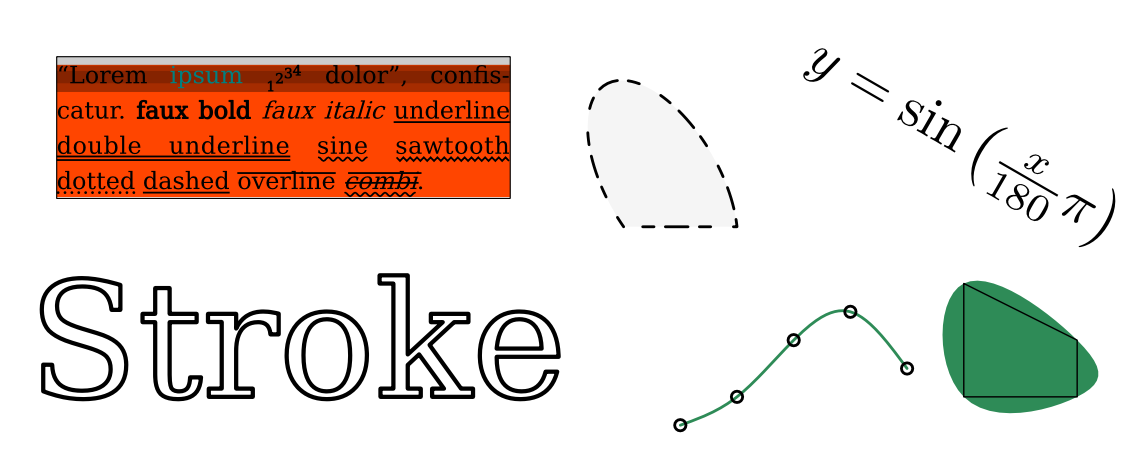
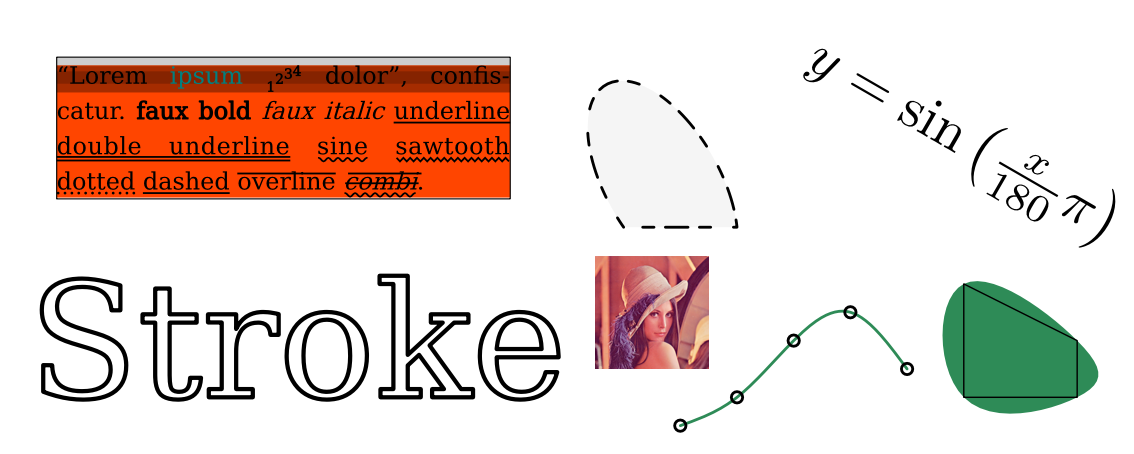
Fix bad stroke for rotated and radii corrected ellipses

diff --git a/path_stroke.go b/path_stroke.go
@@ -347,7 +347,6 @@ func offsetSegment(p *Path, halfWidth float64, cr Capper, jr Joiner) (*Path, *Pa
 				cp2: cp2,
 			})
 		case ArcToCmd:
-			// TODO: results seems bad, stroke too thick in the middle for rotated arcs
 			rx, ry, phi := p.d[i+1], p.d[i+2], p.d[i+3]
 			largeArc, sweep := fromArcFlags(p.d[i+4])
 			end = Point{p.d[i+5], p.d[i+6]}
@@ -401,28 +400,32 @@ func offsetSegment(p *Path, halfWidth float64, cr Capper, jr Joiner) (*Path, *Pa
 	rhs.MoveTo(rStart.X, rStart.Y)
 	lhs.MoveTo(lStart.X, lStart.Y)
 
-	// TODO: fix if there is no space for Joiner when stroke is too thick
 	for i, cur := range states {
+		rEnd := cur.p1.Add(cur.n1)
+		lEnd := cur.p1.Sub(cur.n1)
 		switch cur.cmd {
 		case LineToCmd:
-			rEnd := cur.p1.Add(cur.n1)
-			lEnd := cur.p1.Sub(cur.n1)
 			rhs.LineTo(rEnd.X, rEnd.Y)
 			lhs.LineTo(lEnd.X, lEnd.Y)
 		case CubeToCmd:
 			rhs = rhs.Join(strokeCubicBezier(cur.p0, cur.cp1, cur.cp2, cur.p1, halfWidth, Tolerance))
 			lhs = lhs.Join(strokeCubicBezier(cur.p0, cur.cp1, cur.cp2, cur.p1, -halfWidth, Tolerance))
 		case ArcToCmd:
-			rEnd := cur.p1.Add(cur.n1)
-			lEnd := cur.p1.Sub(cur.n1)
+			dr := halfWidth
 			if !cur.sweep { // bend to the right, ie. CW
-				rhs.ArcTo(cur.rx-halfWidth, cur.ry-halfWidth, cur.rot, cur.largeArc, cur.sweep, rEnd.X, rEnd.Y)
-				lhs.ArcTo(cur.rx+halfWidth, cur.ry+halfWidth, cur.rot, cur.largeArc, cur.sweep, lEnd.X, lEnd.Y)
-			} else { // bend to the left, ie. CCW
-				rhs.ArcTo(cur.rx+halfWidth, cur.ry+halfWidth, cur.rot, cur.largeArc, cur.sweep, rEnd.X, rEnd.Y)
-				lhs.ArcTo(cur.rx-halfWidth, cur.ry-halfWidth, cur.rot, cur.largeArc, cur.sweep, lEnd.X, lEnd.Y)
+				dr = -dr
 			}
+
+			rLambda := ellipseRadiiCorrection(rStart, cur.rx+dr, cur.ry+dr, cur.rot*math.Pi/180.0, rEnd)
+			lLambda := ellipseRadiiCorrection(lStart, cur.rx-dr, cur.ry-dr, cur.rot*math.Pi/180.0, lEnd)
+			if rLambda <= 1.0 && lLambda <= 1.0 {
+				rLambda, lLambda = 1.0, 1.0
+			}
+			rhs.ArcTo(rLambda*(cur.rx+dr), rLambda*(cur.ry+dr), cur.rot, cur.largeArc, cur.sweep, rEnd.X, rEnd.Y)
+			lhs.ArcTo(lLambda*(cur.rx-dr), lLambda*(cur.ry-dr), cur.rot, cur.largeArc, cur.sweep, lEnd.X, lEnd.Y)
 		}
+		rStart = rEnd
+		lStart = lEnd
 
 		// join the cur and next path segments on the outside of the bend
 		if i+1 < len(states) || closed {

diff --git a/example/test.go b/example/test.go
@@ -75,39 +75,23 @@ func drawStrokedPath(c *canvas.C, x, y, d float64, path string) {
 }
 
 func Draw(c *canvas.C) {
-	// test SVG, PDF and EPS implementations
-	//p, _ := canvas.ParseSVG(fmt.Sprintf("H10.0Q20.0 0.0 20.0 10.0A20.0 10.0 45.0 0 1 0.0 20.0A15.0 10.0 45.0 0 0 10.0 5.0z"))
 	p, _ := canvas.ParseSVG(fmt.Sprintf("A60.0 30.0 30.0 0 0 120.0 0.0"))
-
-	//c.SetStrokeJoiner(canvas.MiterJoiner)
-	//c.SetStrokeColor(canvas.Blue)
-	//c.SetDashes(-4.0, 5.0, 1.0)
-	//c.DrawPath(40.0, 10.0, p)
-
-	//c.SetFillColor(canvas.Transparent)
-	f := p.Flatten()
-	p = p.Stroke(1.0, canvas.ButtCapper, canvas.MiterJoiner)
-	f = f.Stroke(1.0, canvas.ButtCapper, canvas.MiterJoiner)
-	//c.SetDashes(0.0)
-	c.DrawPath(10.0, 10.0, p)
-
-	c.SetFillColor(color.RGBA{128, 0, 0, 128})
+	f := p.Flatten().Stroke(1.0, canvas.ButtCapper, canvas.MiterJoiner)
+	c.SetFillColor(color.RGBA{0, 0, 128, 128})
 	c.DrawPath(10.0, 10.0, f)
 
-	c.DrawPath(40.0, 70.0, canvas.RegularStarPolygon(10, 3, 10.0, false))
-	c.DrawPath(60.0, 70.0, canvas.RegularPolygon(4, 10.0, false))
-	c.DrawPath(20.0, 70.0, canvas.StarPolygon(4, 10.0, 3.0, false))
+	p = p.Stroke(1.0, canvas.ButtCapper, canvas.MiterJoiner)
+	c.SetFillColor(color.RGBA{128, 0, 0, 128})
+	c.DrawPath(10.0, 10.0, p)
 
-	lenna, err := os.Open("lenna.png")
-	if err != nil {
-		panic(err)
-	}
-	img, err := png.Decode(lenna)
-	if err != nil {
-		panic(err)
-	}
-	c.SetViewport(canvas.Identity.Rotate(45))
-	c.DrawImage(130.0, 10.0, 10.0, 10.0, img)
+	p, _ = canvas.ParseSVG(fmt.Sprintf("A60.0 30.0 45.0 1 0 80.0 0.0"))
+	f = p.Flatten().Stroke(1.0, canvas.ButtCapper, canvas.MiterJoiner)
+	c.SetFillColor(color.RGBA{0, 0, 128, 128})
+	c.DrawPath(30.0, 10.0, f)
+
+	p = p.Stroke(1.0, canvas.ButtCapper, canvas.MiterJoiner)
+	c.SetFillColor(color.RGBA{128, 0, 0, 128})
+	c.DrawPath(30.0, 10.0, p)
 
 	// test Filling
 	//canvas.FillRule = canvas.EvenOdd

diff --git a/path.go b/path.go
@@ -244,16 +244,11 @@ func (p *Path) ArcTo(rx, ry, rot float64, largeArc, sweep bool, x1, y1 float64) 
 		phi -= math.Pi
 	}
 
-	// scale ellipse if rx and ry are too small, see https://www.w3.org/TR/SVG/implnote.html#ArcCorrectionOutOfRangeRadii
-	diff := p0.Sub(p1)
-	sinphi, cosphi := math.Sincos(phi)
-	x1p := (cosphi*diff.X + sinphi*diff.Y) / 2.0
-	y1p := (-sinphi*diff.X + cosphi*diff.Y) / 2.0
-	lambda := x1p*x1p/rx/rx + y1p*y1p/ry/ry
+	// scale ellipse if rx and ry are too small
+	lambda := ellipseRadiiCorrection(p0, rx, ry, phi, p1)
 	if lambda > 1.0 {
-		fmt.Println("scale ell", rx, ry, "=>", math.Sqrt(lambda)*rx, math.Sqrt(lambda)*ry)
-		rx = math.Sqrt(lambda) * rx
-		ry = math.Sqrt(lambda) * ry
+		rx *= lambda
+		ry *= lambda
 	}
 
 	p.d = append(p.d, ArcToCmd, rx, ry, phi, toArcFlags(largeArc, sweep), p1.X, p1.Y)

diff --git a/path_util.go b/path_util.go
@@ -176,6 +176,15 @@ func ellipseToCenter(x1, y1, rx, ry, phi float64, large, sweep bool, x2, y2 floa
 	return cx, cy, theta, theta + delta
 }
 
+// scale ellipse if rx and ry are too small, see https://www.w3.org/TR/SVG/implnote.html#ArcCorrectionOutOfRangeRadii
+func ellipseRadiiCorrection(start Point, rx, ry, phi float64, end Point) float64 {
+	diff := start.Sub(end)
+	sinphi, cosphi := math.Sincos(phi)
+	x1p := (cosphi*diff.X + sinphi*diff.Y) / 2.0
+	y1p := (-sinphi*diff.X + cosphi*diff.Y) / 2.0
+	return math.Sqrt(x1p*x1p/rx/rx + y1p*y1p/ry/ry)
+}
+
 // splitEllipse returns the new mid point, the two largeArc parameters and the ok bool, the rest stays the same
 func splitEllipse(rx, ry, phi, cx, cy, theta1, theta2, theta float64) (Point, bool, bool, bool) {
 	if !angleBetween(theta, theta1, theta2) {

diff --git a/example/example.go b/example/example.go
@@ -72,7 +72,7 @@ func main() {
 func drawText(c *canvas.C, x, y float64, face canvas.FontFace, rich *canvas.RichText) {
 	metrics := face.Metrics()
 	width, height := 80.0, 25.0
-	text := rich.ToText(width, height, canvas.Justify, canvas.Top, 0.0)
+	text := rich.ToText(width, height, canvas.Justify, canvas.Top, 0.0, 0.0)
 
 	c.SetFillColor(canvas.Orangered)
 	c.DrawPath(x, y, text.Bounds().ToPath())
@@ -167,4 +167,14 @@ func Draw(c *canvas.C) {
 	for _, coord := range polyline.Coords() {
 		c.DrawPath(120, 5, canvas.Circle(1.0).Translate(coord.X, coord.Y).Stroke(0.5, canvas.RoundCapper, canvas.RoundJoiner))
 	}
+
+	lenna, err := os.Open("lenna.png")
+	if err != nil {
+		panic(err)
+	}
+	img, err := png.Decode(lenna)
+	if err != nil {
+		panic(err)
+	}
+	c.DrawImage(105.0, 15.0, 20.0, 20.0, img)
 }
